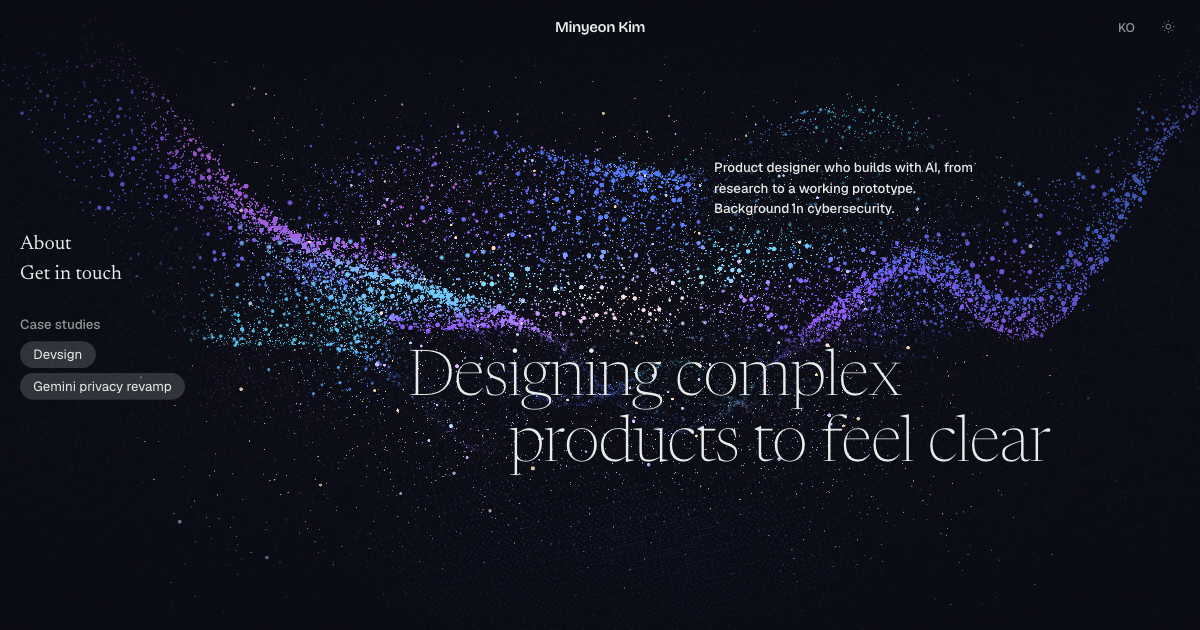
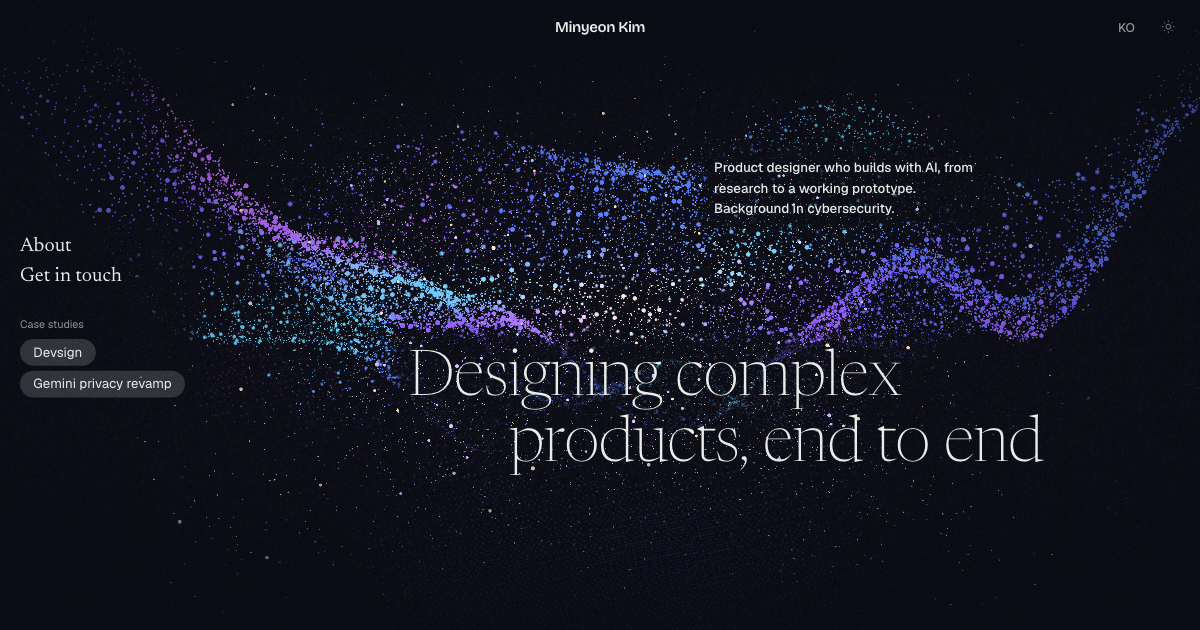
Landing headline: Designing complex products, end to end

diff --git a/lib/i18n.ts b/lib/i18n.ts
@@ -33,7 +33,7 @@ export const ui = {
     close: "Close",
     closeMenu: "Close menu",
     siteNav: "Site navigation",
-    positioning: "Designing complex products to feel clear. Product designer who builds with AI, from research to a working prototype, with a background in cybersecurity.",
+    positioning: "Designing complex products, end to end. Product designer who builds with AI, from research to a working prototype, with a background in cybersecurity.",
     projectType: "Project Type",
     role: "Role",
     timeline: "Timeline",
@@ -71,9 +71,9 @@ export const ui = {
     welcome: "What would you like to explore?",
     askPlaceholder: "Ask about a project",
     askWork: "Ask about my work",
-    heroLine: "Designing complex products to feel clear",
+    heroLine: "Designing complex products, end to end",
     city: "Seoul",
-    heroEmphasis: "clear",
+    heroEmphasis: "complex",
     heroParagraph: "Product designer who builds with AI, from research to a working prototype. Background in cybersecurity.",
     scrollHint: "or scroll for the work ↓",
     caseStudies: "{n} case studies",

diff --git a/app/globals.css b/app/globals.css
@@ -2594,7 +2594,7 @@ header[data-home] .header-menu-trigger { transition-property: background-color, 
 .home-tagline-wrap > * { grid-area: 1 / 1; transition: opacity 400ms ease, translate 400ms var(--ease); }
 /* Fixed widths in em, so the breaks never change with the window, running
    left past the grid column from the right edge. English in three lines
-   ("Designing / complex products / to feel clear"), Korean too
+   ("Designing / complex products, / end to end"), Korean too
    ("복잡한 제품을 / 이해하기 쉽게 / 디자인합니다"). */
 .home-tagline { width: 8.4em; max-width: none; margin: 0; font-family: var(--font-headline); font-size: clamp(44px, min(6vw, 10.5svh), 112px); font-weight: 200; line-height: 1.04; letter-spacing: -0.012em; word-break: keep-all; text-align: right; color: var(--ink); text-wrap: balance; }
 .home-note-project, .home-tagline-project { opacity: 0; translate: 0 6px; pointer-events: none; }

diff --git a/lib/site.ts b/lib/site.ts
@@ -5,7 +5,7 @@ import type { Metadata } from "next";
 export const site = {
   name: "Minyeon Kim",
   positioning:
-    "Designing complex products to feel clear. Product designer who builds with AI, from research to a working prototype, with a background in cybersecurity.",
+    "Designing complex products, end to end. Product designer who builds with AI, from research to a working prototype, with a background in cybersecurity.",
   resumeUrl: "/resume.pdf", // TODO: add public/resume.pdf
   email: "minyeon.kim3@gmail.com",
   linkedinUrl: "https://www.linkedin.com/in/minyeon-kim-56b21228a/",

diff --git a/claude.md b/claude.md
@@ -1300,3 +1300,5 @@ Gemini's hover name is two lines at the bottom left ("Gemini / privacy revamp", 
 The Devsign loop (hero-base, hero-panel-review, hero-panel-approved in public/images/cases/devsign; home card, opener, zoom, next project, public/og/devsign.png) is the prototype's light theme, whatever the site theme (owner). Captured from the local devsign checkout (vite on localhost, localStorage devsign:theme:v1 = light, language en, DPR 2), so the live prototype behind Try the prototype is still dark. Recaptured from aef8f23, which fixes that theme's unreadable text and dark surfaces in the prototype itself (src/index.css), with no in-page colour patch; only transitions and toasts are off for a still frame. Neither c1a8ba7 nor aef8f23 is pushed yet. The red pin now marks the Place order pin (51.4%, 80.7%). Figma not updated.
 
 The Devsign loop is the prototype's dark screens in both site themes (owner, after trying light; supersedes the light loop notes above): hero-base, hero-panel-review, hero-panel-approved and public/og/devsign.png are back to their state before 08f7eb8, and the pin is back at 42.7%. The Gemini phone stays light. The light theme fix (aef8f23) stays unpushed in the local devsign checkout, on top of c1a8ba7.
+
+Landing headline (English) is "Designing complex products, end to end" (class feedback: "complex products" is good, "clear" isn't a word companies use; supersedes "to feel clear"), with "complex" resolving last in the scramble; the site description and `positioning` follow, and public/og/home.png is retaken. The Korean line is unchanged. Figma Main not updated.
